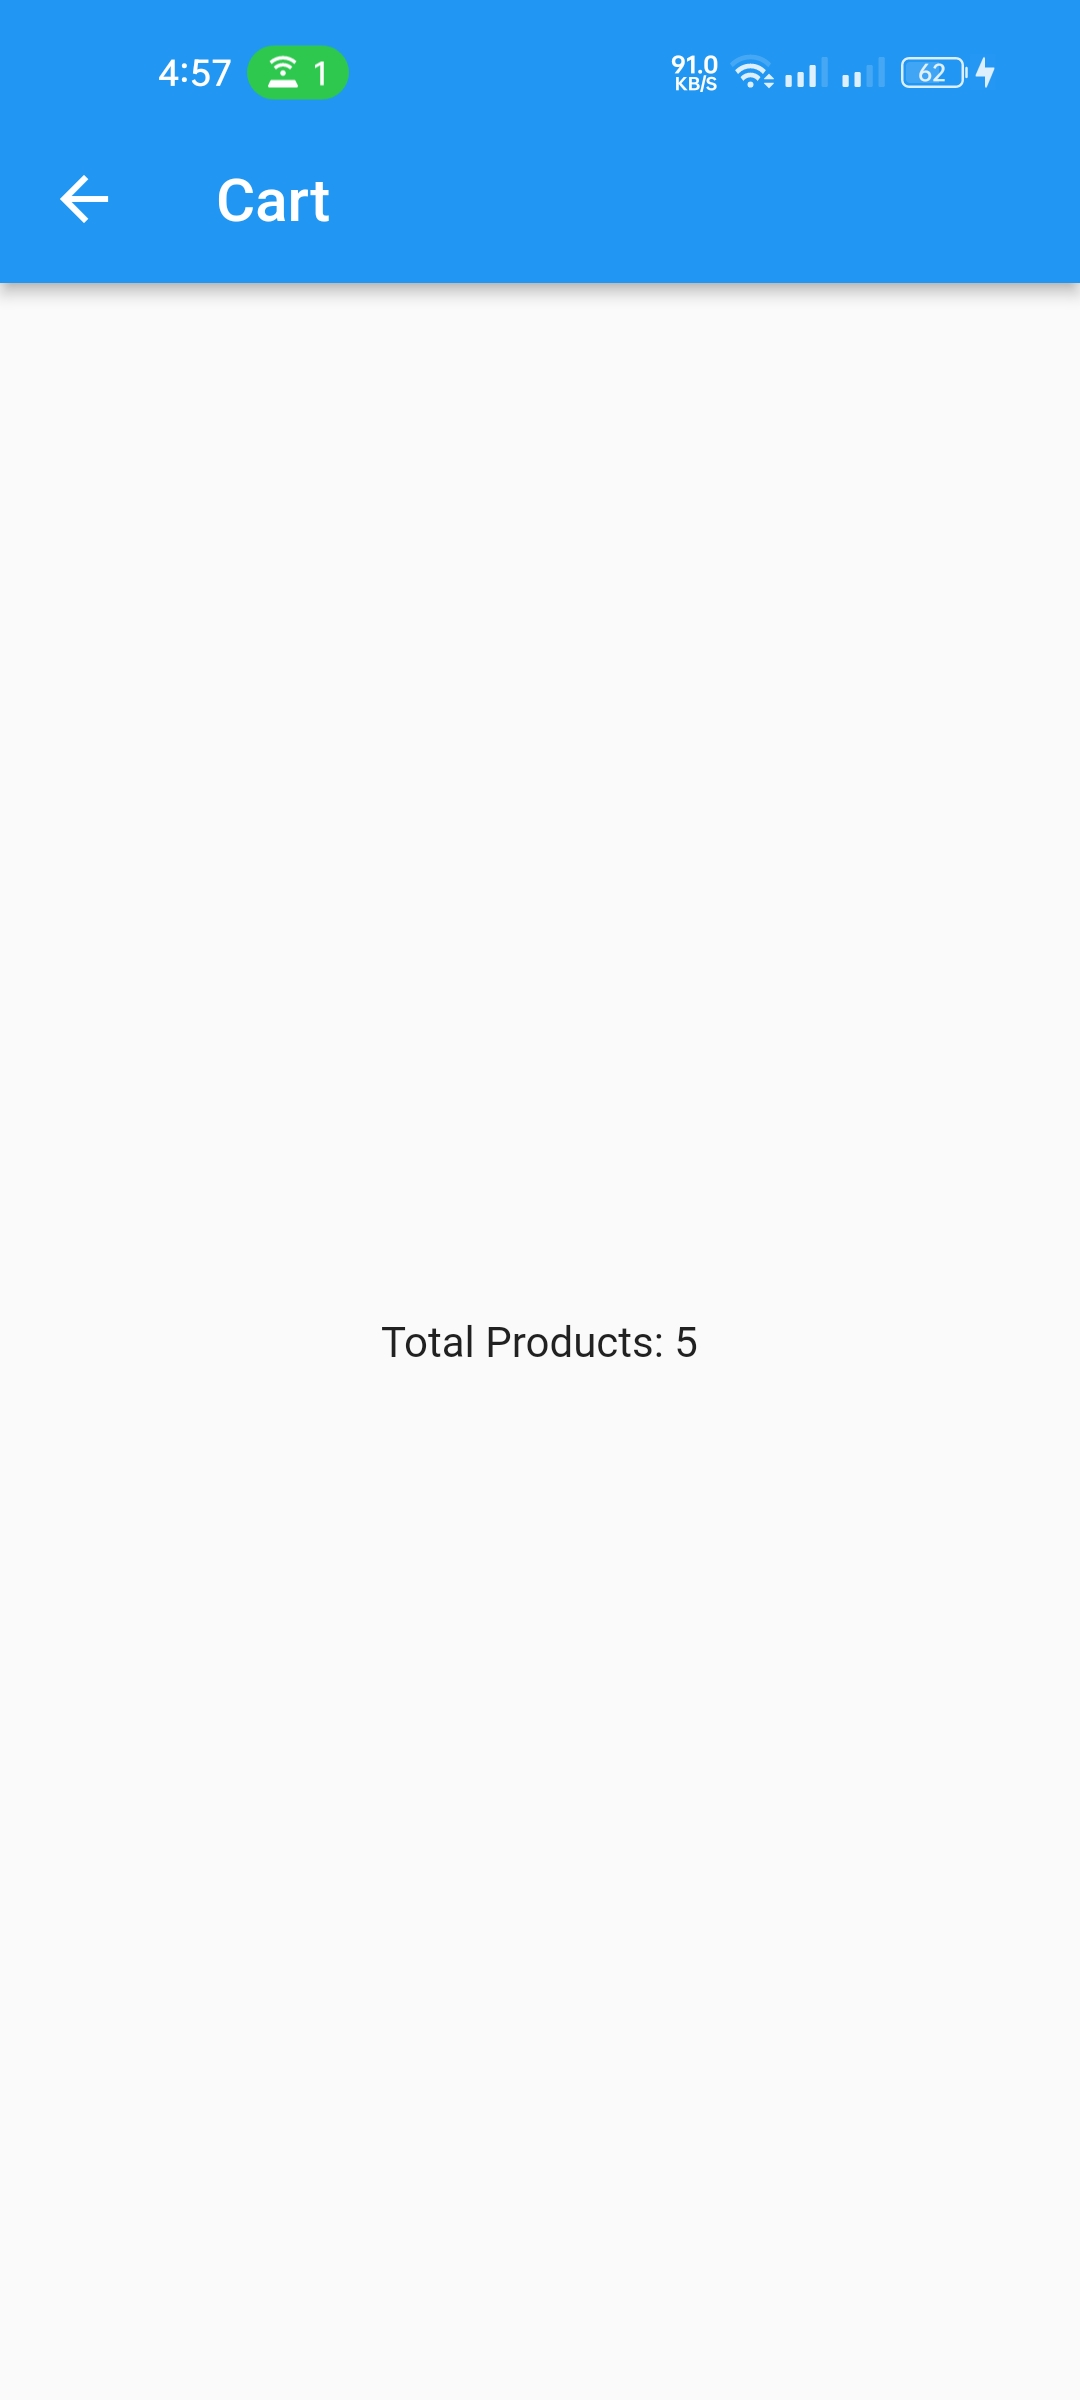
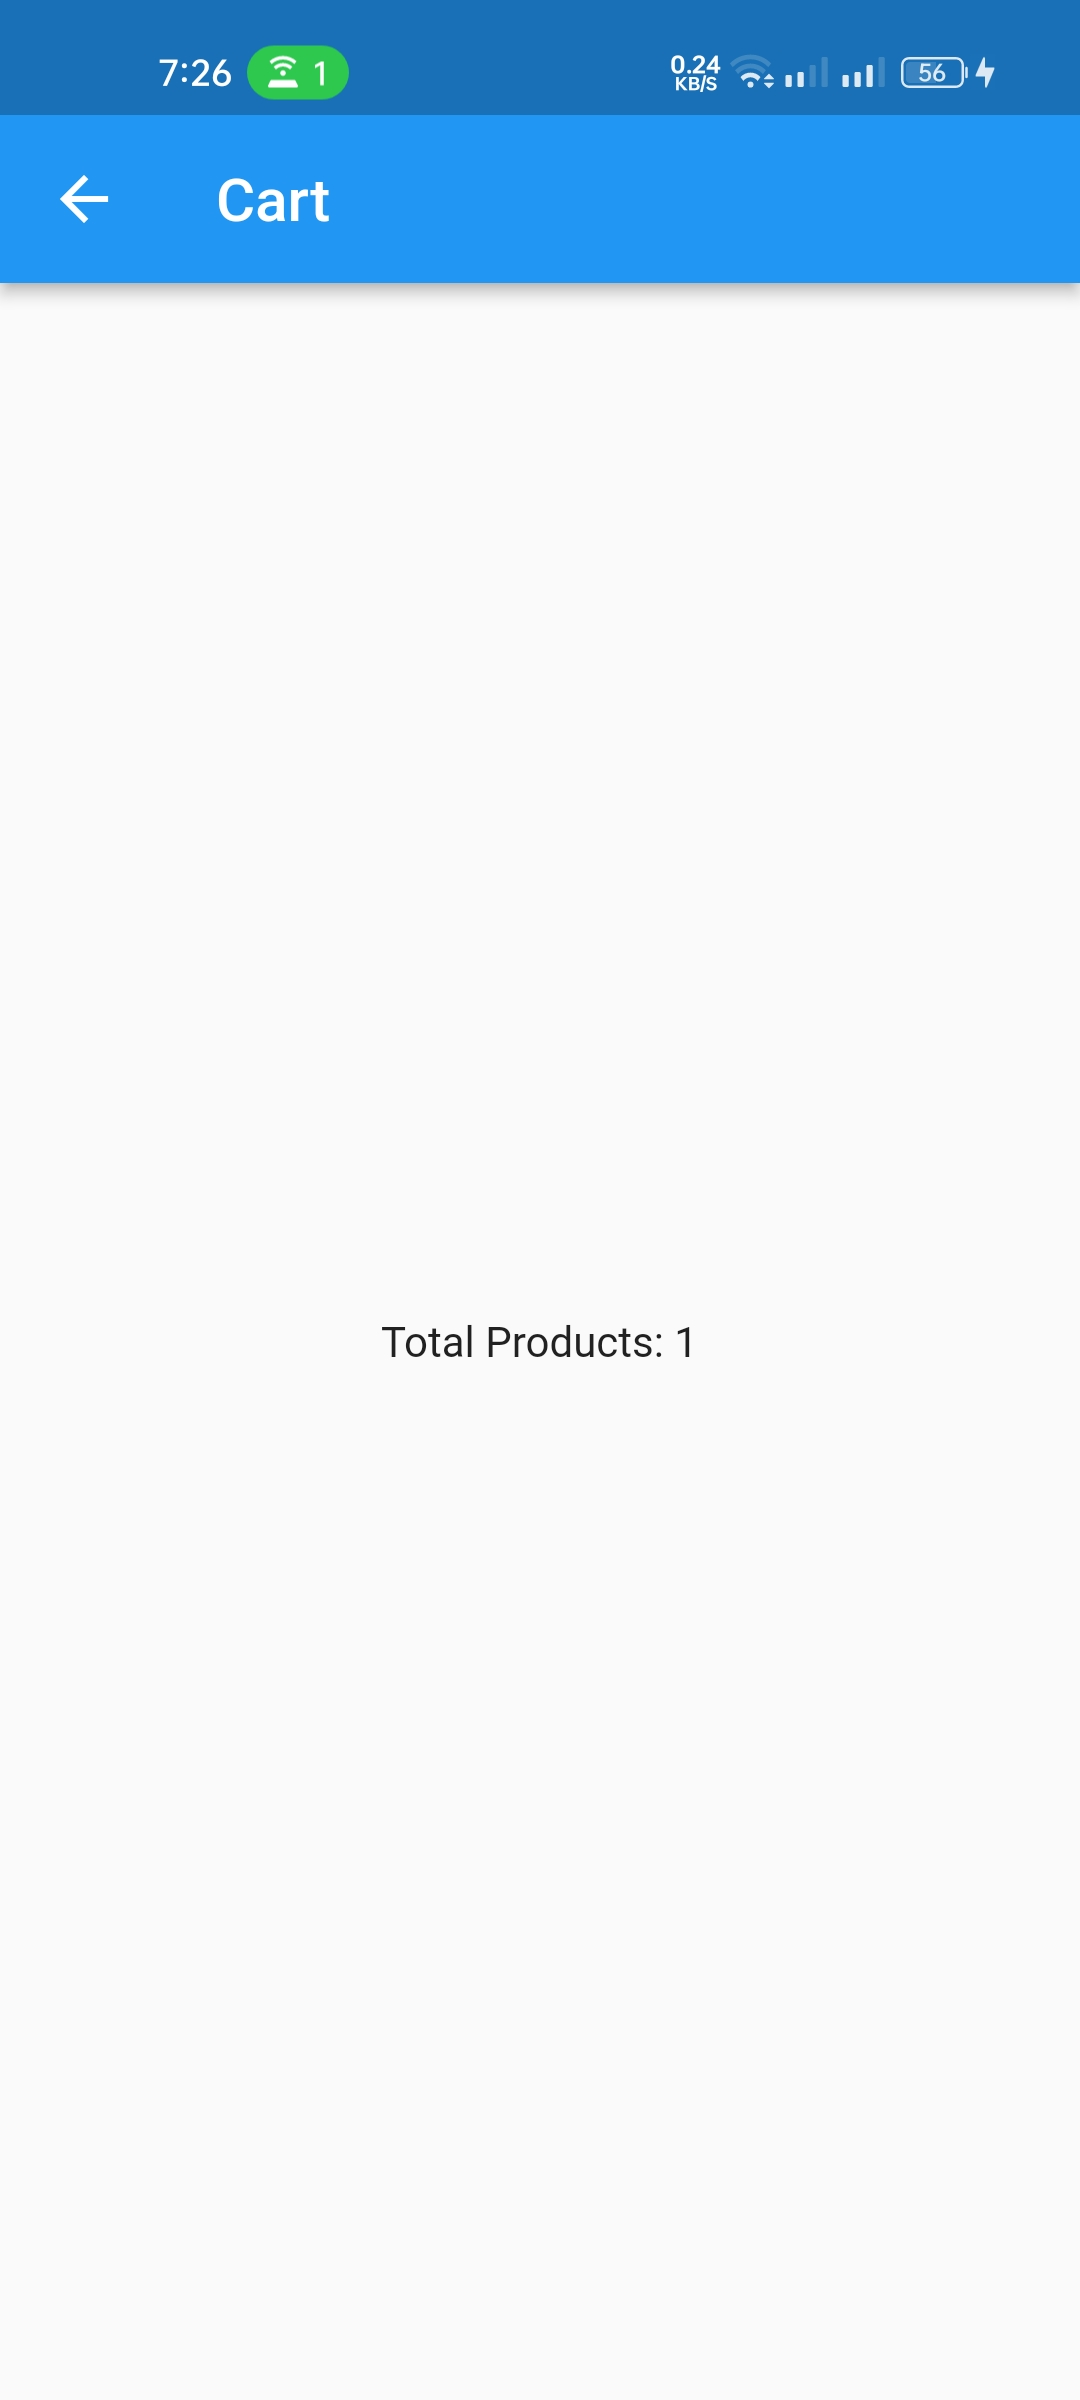
Module 7 Asignment fix

Changed region(s): [[0.0, 0.0, 1.0, 0.0625]]

diff --git a/module7_assignment/lib/main.dart b/module7_assignment/lib/main.dart
@@ -38,10 +38,15 @@ class _ProductListState extends State<ProductList> {
     ProductItem(name: "Charger", price: 9.99),
   ];
 
-  int _totalProduct = 0;
+  final Set<ProductItem> _totalUniqueProduct = {};
 
   void _handleCount(int index) {
-    if (_productList[index].quantity == 4) {
+    if (_productList[index].quantity < 5) {
+      _productList[index].quantity++;
+      _totalUniqueProduct.add(_productList[index]);
+      setState(() {});
+    }
+    if (_productList[index].quantity == 5) {
       showDialog(
         barrierDismissible: false,
         context: context,
@@ -59,9 +64,6 @@ class _ProductListState extends State<ProductList> {
         ),
       );
     }
-    _productList[index].quantity++;
-    _totalProduct++;
-    setState(() {});
   }
 
   @override
@@ -107,7 +109,9 @@ class _ProductListState extends State<ProductList> {
           Navigator.push(
             context,
             MaterialPageRoute(
-              builder: (context) => CartPage(totalProduct: _totalProduct),
+              builder: (context) => CartPage(
+                totalProduct: _totalUniqueProduct.length,
+              ),
             ),
           );
         },
